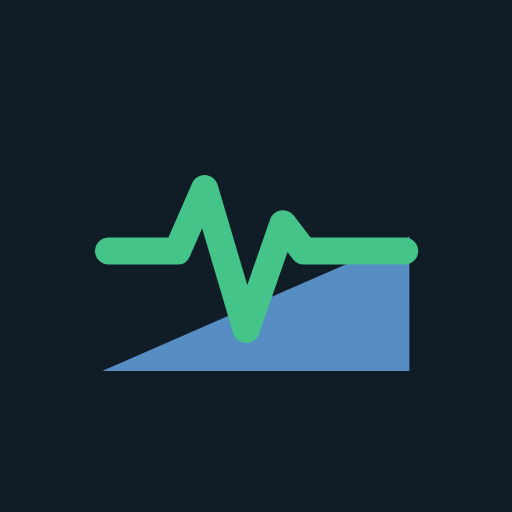
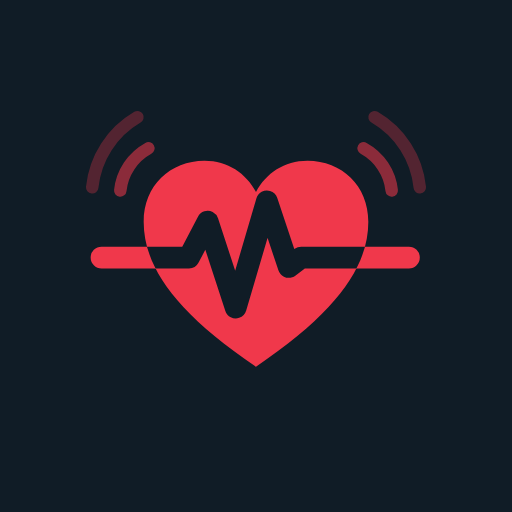
Nouvelle icône : cœur battant traversé par un tracé cardiaque rouge
Claude-Session: https://claude.ai/code/session_01P54QDfn6zGK6FBAqSkCKqt

Changed region(s): [[0.1562, 0.3125, 0.8438, 0.75], [0.6875, 0.2188, 0.8438, 0.4062], [0.1562, 0.2188, 0.3125, 0.4062]]

diff --git a/src/version.ts b/src/version.ts
@@ -1,5 +1,5 @@
 // App version, format vYY.MM.XX[-dev]: year, month, release index within the month.
 // "-dev" = changes not yet confirmed stable by the user (see CLAUDE.md).
-export const APP_VERSION = "v26.10.04";
+export const APP_VERSION = "v26.11.01-dev";
 // Build channel, set by the deploy workflow: "dev" for the development page (/fitpacer/dev/).
 export const IS_DEV_BUILD = import.meta.env.VITE_CHANNEL === "dev";

diff --git a/NOTES.md b/NOTES.md
@@ -118,6 +118,8 @@ Reproduire le prototype (`reference/prototype-workout.html`) sous forme de PWA i
 - [x] **Partage de fichiers** (commun au bilan et aux consignes) : Copier / Partager (Web Share API
       niveau 2 avec fichier) / Télécharger (Blob + lien `download`) ; boutons masqués si non supportés.
 - [x] **PWA** : manifest, icônes, installable, hors ligne, polices locales.
+- [x] **Icône** (v26.11.01) : cœur rouge traversé par un tracé de rythme cardiaque, ondes de battement
+      de part et d'autre ; fond sombre `#101C26`. Source : `public/favicon.svg` (PNG dérivés).
 
 Explicitement **hors MVP** : comptes, sync, historique, envoi automatique à Claude, GPS, iOS.
 
